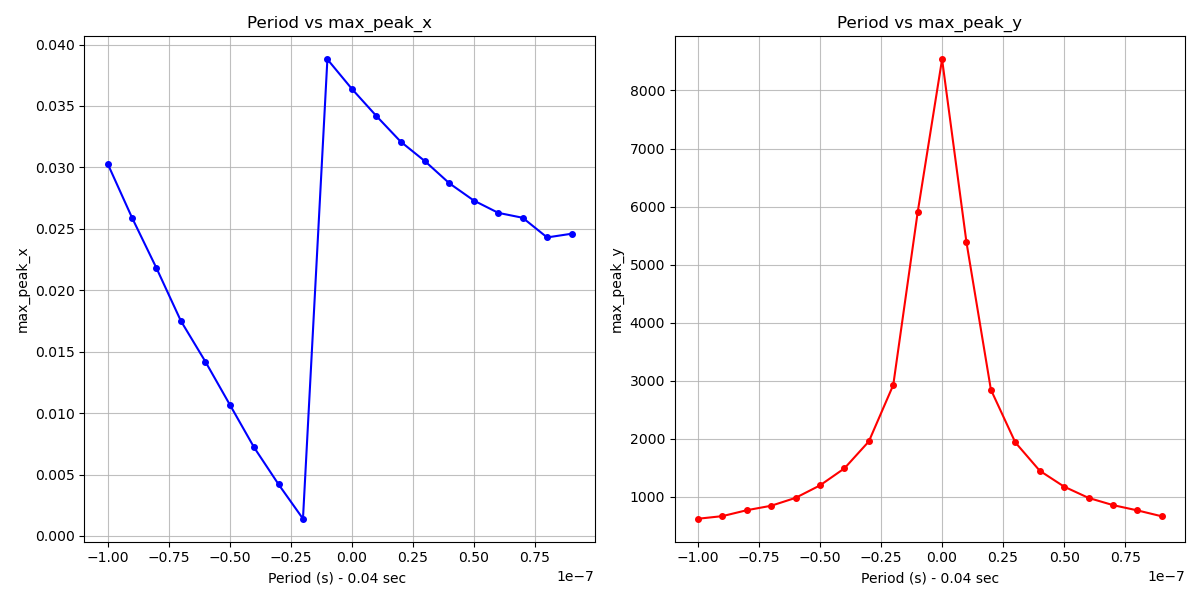
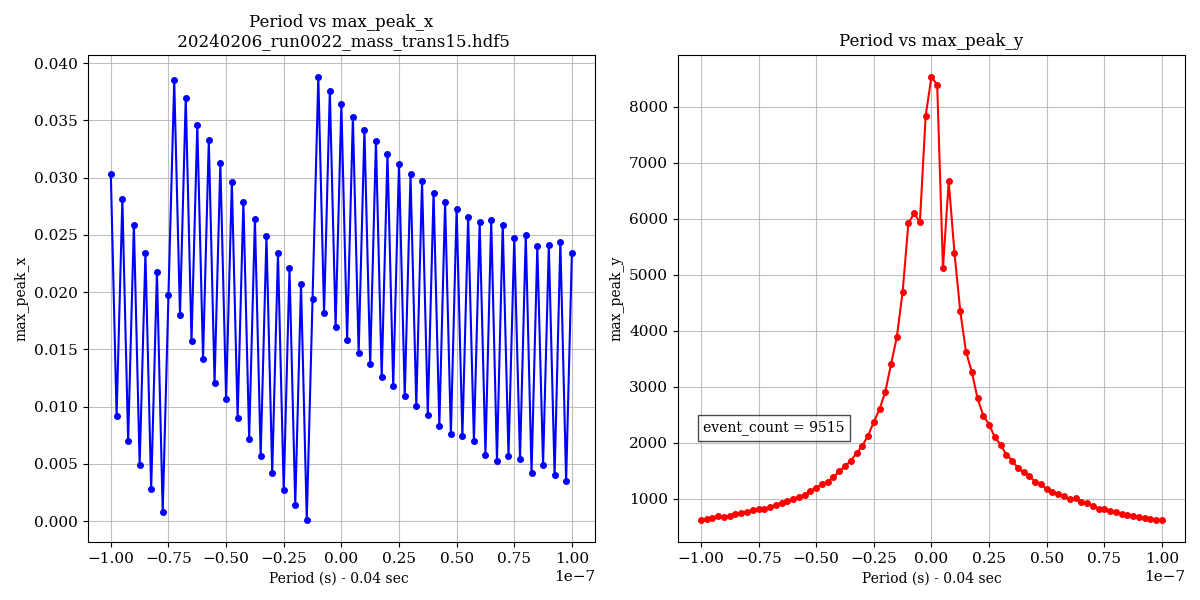
best

diff --git a/heates/heates107/checktool/heates107_checktool_find_best_beamphase.py b/heates/heates107/checktool/heates107_checktool_find_best_beamphase.py
@@ -4,6 +4,10 @@ import h5py
 import numpy as np
 import argparse
 import matplotlib.pyplot as plt
+params = {'xtick.labelsize': 11, 'ytick.labelsize': 11, 'legend.fontsize': 8}
+plt.rcParams['font.family'] = 'serif'
+plt.rcParams.update(params)
+
 from scipy.signal import find_peaks
 
 PERIOD_25Hz=0.04 # 0.04 sec = 25 Hz
@@ -55,8 +59,9 @@ def process_timestamps(input_file, period=1/25, bins=400):
     # Get the x and y values of the peak with the maximum y value
     max_peak_x = bin_edges[max_peak_index]
     max_peak_y = counts[max_peak_index]
+    event_count = len(all_timestamps_array)
 
-    return max_peak_x, max_peak_y
+    return max_peak_x, max_peak_y, event_count
 
 def main():
     """
@@ -67,8 +72,9 @@ def main():
     parser.add_argument('input_file', type=str, help="Path to the input HDF5 file.")
     parser.add_argument('--period_min', type=float, default=0.0399999, help="Minimum period value (default: 0.0399999).")
     parser.add_argument('--period_max', type=float, default=0.0400001, help="Maximum period value (default: 0.0400001).")
-    parser.add_argument('--period_step', type=float, default=1e-8, help="Step size for period (default: 1e-7).")
+    parser.add_argument('--period_step', type=float, default=0.25e-8, help="Step size for period (default: 1e-7).")
     parser.add_argument('--bins', type=int, default=400, help="Number of bins for histogram (default: 400).")
+    parser.add_argument('-o', '--output_file', type=str, default='output_find_bestphase.png', help="Output PNG file name (default: output.png).")
     
     # Parse arguments
     args = parser.parse_args()
@@ -81,7 +87,7 @@ def main():
     # Loop through the period range and calculate the peak values for each period
     period = args.period_min
     while period <= args.period_max:
-        max_peak_x, max_peak_y = process_timestamps(args.input_file, period=period, bins=args.bins)
+        max_peak_x, max_peak_y, event_count = process_timestamps(args.input_file, period=period, bins=args.bins)
         
         # Store the results
         periods.append(period)
@@ -94,18 +100,20 @@ def main():
     periods = np.array(periods)
     # Plot the period vs. max_peak_x and period vs. max_peak_y
     plt.figure(figsize=(12, 6))
-
     # Plot period vs max_peak_x
     plt.subplot(1, 2, 1)
     plt.plot(periods - PERIOD_25Hz, max_peak_x_values, color='blue', marker='o', markersize=4)
-    plt.title("Period vs max_peak_x")
+    plt.title(f"Period vs max_peak_x\n {args.input_file}")
     plt.xlabel("Period (s) - 0.04 sec ")
     plt.ylabel("max_peak_x")
     plt.grid(alpha=0.8)
     
     # Plot period vs max_peak_y
-    plt.subplot(1, 2, 2)
+    plt.subplot(1, 2, 2)    
     plt.plot(periods - PERIOD_25Hz, max_peak_y_values, color='red', marker='o', markersize=4)
+    plt.text(0.05, 0.25, f"event_count = {event_count}", 
+        transform=plt.gca().transAxes, fontsize=10, verticalalignment='top', bbox=dict(facecolor='white', alpha=0.7))
+
     plt.title("Period vs max_peak_y")
     plt.xlabel("Period (s) - 0.04 sec")
     plt.ylabel("max_peak_y")
@@ -113,6 +121,7 @@ def main():
 
     # Display the plots
     plt.tight_layout()
+    plt.savefig(args.output_file)
     plt.show()
 
 if __name__ == "__main__":
